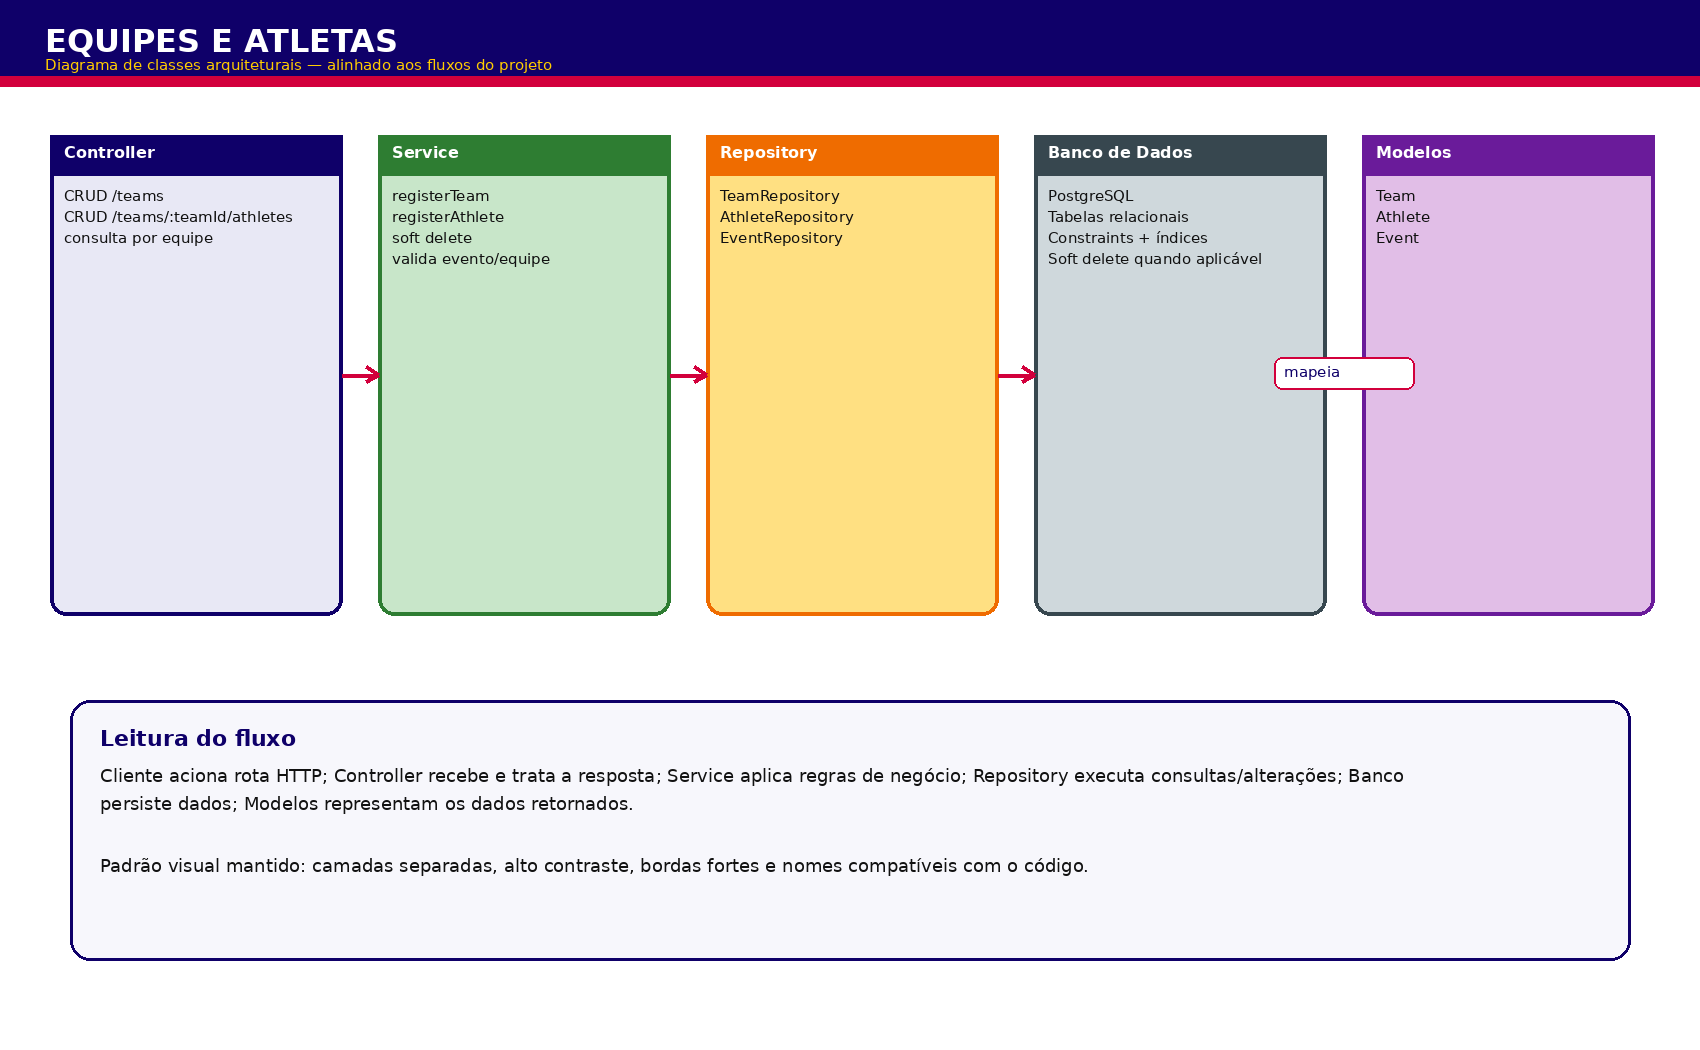
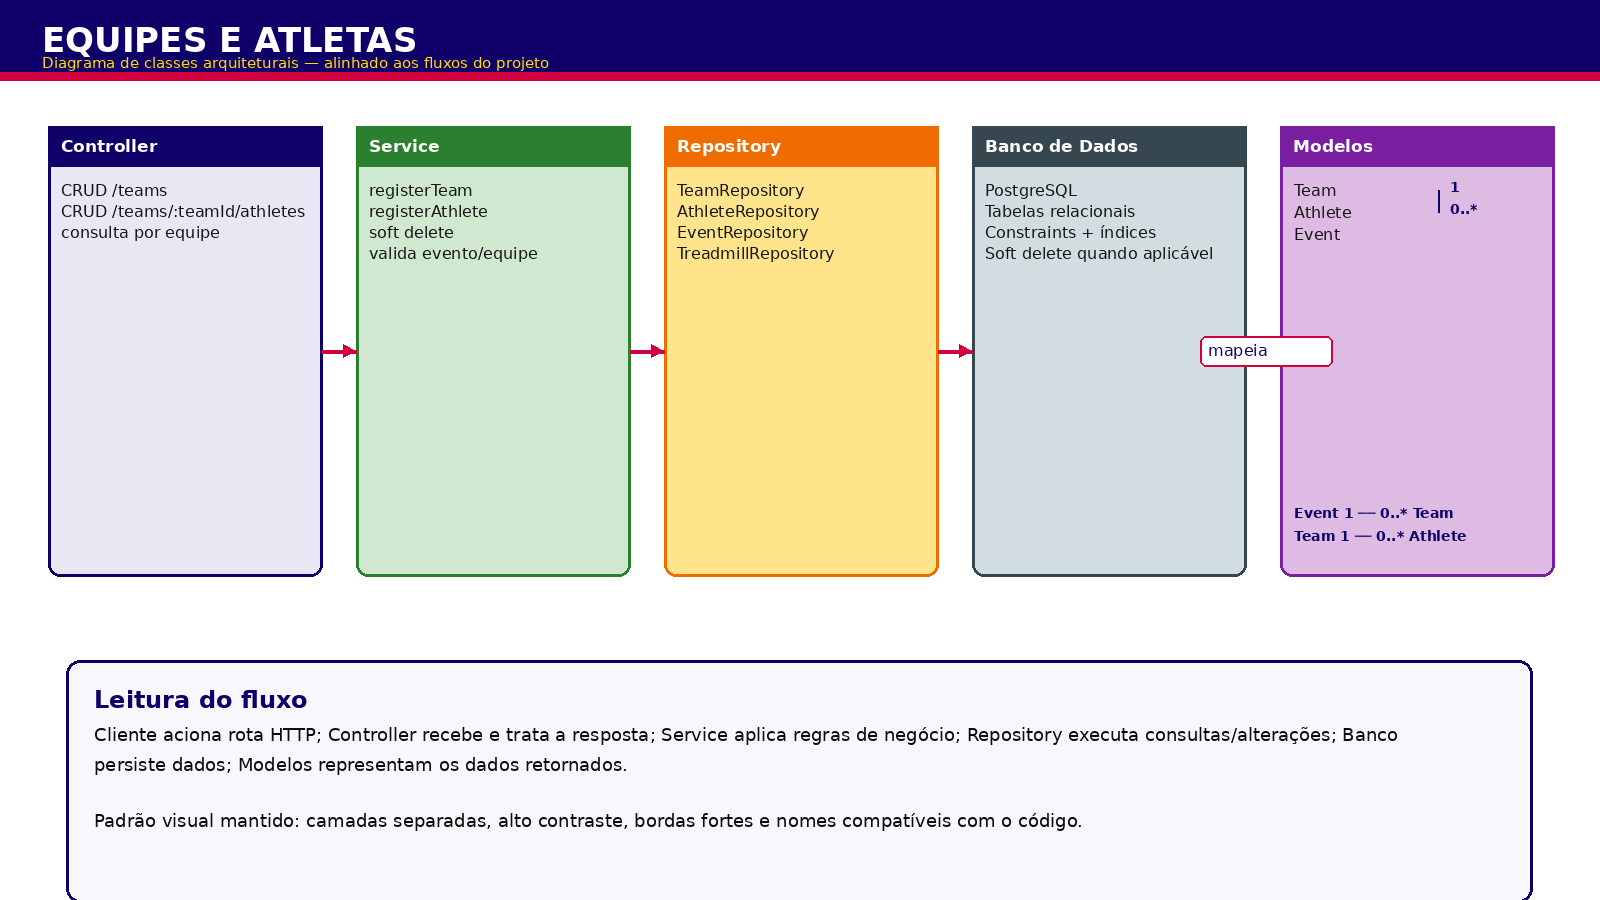
fix: corrige os diagramas de classes arquiteturais de eventos e teams apos receber os feedbacks. (#242)

diff --git a/documentos/wad.md b/documentos/wad.md
@@ -1879,9 +1879,13 @@ O diagrama de Turnos apresenta a estrutura utilizada para administrar os períod
 #### 3.2.1.1. Diagrama de Classes Arquiteturais 
 
 ---
-A seção de Diagramas de Classes Arquiteturais apresenta a modelagem estrutural dos principais módulos do sistema, evidenciando as classes, responsabilidades e relacionamentos existentes entre os componentes da aplicação. Esses diagramas auxiliam na compreensão da organização interna do software, demonstrando como entidades, serviços, controladores e repositórios interagem para garantir o funcionamento adequado das funcionalidades implementadas.
+Os Diagramas de Classes Arquiteturais apresentados nesta seção descrevem a estrutura interna dos principais módulos da aplicação, evidenciando as classes que compõem cada funcionalidade, suas responsabilidades e os relacionamentos estabelecidos entre os componentes do sistema. Os diagramas foram organizados de acordo com os módulos implementados, permitindo visualizar a separação das camadas de controle, serviço e persistência adotada pela arquitetura da solução.
+
+Por meio dessa representação, é possível compreender como as requisições são processadas, como as regras de negócio são executadas e como ocorre o acesso aos dados da aplicação. Além disso, os diagramas auxiliam na identificação das dependências entre os componentes, contribuindo para a manutenção, evolução e validação da arquitetura implementada.
 
 DASHBOARD
+
+O diagrama de classes arquiteturais do módulo Dashboard apresenta os principais componentes responsáveis pela consolidação e exibição das informações da competição. O modelo evidencia a interação entre controladores, serviços e repositórios utilizados para coletar, processar e disponibilizar métricas e indicadores relevantes aos usuários administrativos da plataforma.
 
 <div align="center">
   <sub>Imagem 20 - Diagrama de Classes Arquiteturais - DASHBOARD </sub><br>
@@ -1892,6 +1896,8 @@ DASHBOARD
 
 EVENTS
 
+O diagrama de classes arquiteturais do módulo Events representa a estrutura responsável pelo gerenciamento dos eventos da aplicação. São demonstradas as relações entre as classes que realizam o tratamento das regras de negócio, acesso aos dados e manipulação das entidades relacionadas às competições, esteiras e demais elementos vinculados aos eventos monitorados pelo sistema.
+
 <div align="center">
   <sub>Imagem 21 - Diagrama de Classes Arquiteturais - EVENTS </sub><br>
   <img src= "./assets/diagramas_arquiteturais/EVENTS_ClassDiagram.png" width="100%" alt="Diagrama de Classes Arquiteturais"><br>
@@ -1900,6 +1906,8 @@ EVENTS
 </div>
 
 HISTORY
+
+O diagrama de classes arquiteturais do módulo History apresenta a organização das classes envolvidas na consulta e recuperação de registros históricos. A modelagem evidencia como os componentes colaboram para disponibilizar informações armazenadas anteriormente, garantindo rastreabilidade e suporte às análises operacionais realizadas pelos usuários.
 
 <div align="center">
   <sub>Imagem 22 - Diagrama de Classes Arquiteturais - HISTORY </sub><br>
@@ -1910,6 +1918,8 @@ HISTORY
 
 LOGS
 
+O diagrama de classes arquiteturais do módulo Logs demonstra a estrutura responsável pelo registro e gerenciamento dos logs da aplicação. As relações entre controladores, serviços e repositórios evidenciam o fluxo utilizado para armazenar, consultar e sincronizar informações de auditoria, contribuindo para a rastreabilidade das operações executadas no sistema.
+
 <div align="center">
   <sub>Imagem 23 - Diagrama de Classes Arquiteturais - LOGS </sub><br>
   <img src= "./assets/diagramas_arquiteturais/LOGS_ClassDiagram.png" width="100%" alt="Diagrama de Classes Arquiteturais"><br>
@@ -1919,6 +1929,8 @@ LOGS
 
 TEAMS
 
+O diagrama de classes arquiteturais do módulo Teams representa os componentes responsáveis pelo gerenciamento das equipes e atletas participantes da competição. A modelagem destaca as relações entre as entidades e os mecanismos de persistência utilizados para garantir a integridade das informações e o correto funcionamento das operações de cadastro e consulta.
+
 <div align="center">
   <sub>Imagem 24 - Diagrama de Classes Arquiteturais - TEAMS </sub><br>
   <img src= "./assets/diagramas_arquiteturais/TEAMS_ClassDiagram.png" width="100%" alt="Diagrama de Classes Arquiteturais"><br>
@@ -1927,6 +1939,8 @@ TEAMS
 </div>
 
 TURNS
+
+O diagrama de classes arquiteturais do módulo Turns apresenta a estrutura utilizada para controlar os turnos dos atletas durante a competição. O modelo evidencia as classes responsáveis pelo gerenciamento das escalas, regras de negócio e persistência dos dados, assegurando a correta organização e acompanhamento dos períodos de participação dos corredores.
 
 <div align="center">
   <sub>Imagem 25 - Diagrama de Classes Arquiteturais - TURNS </sub><br>